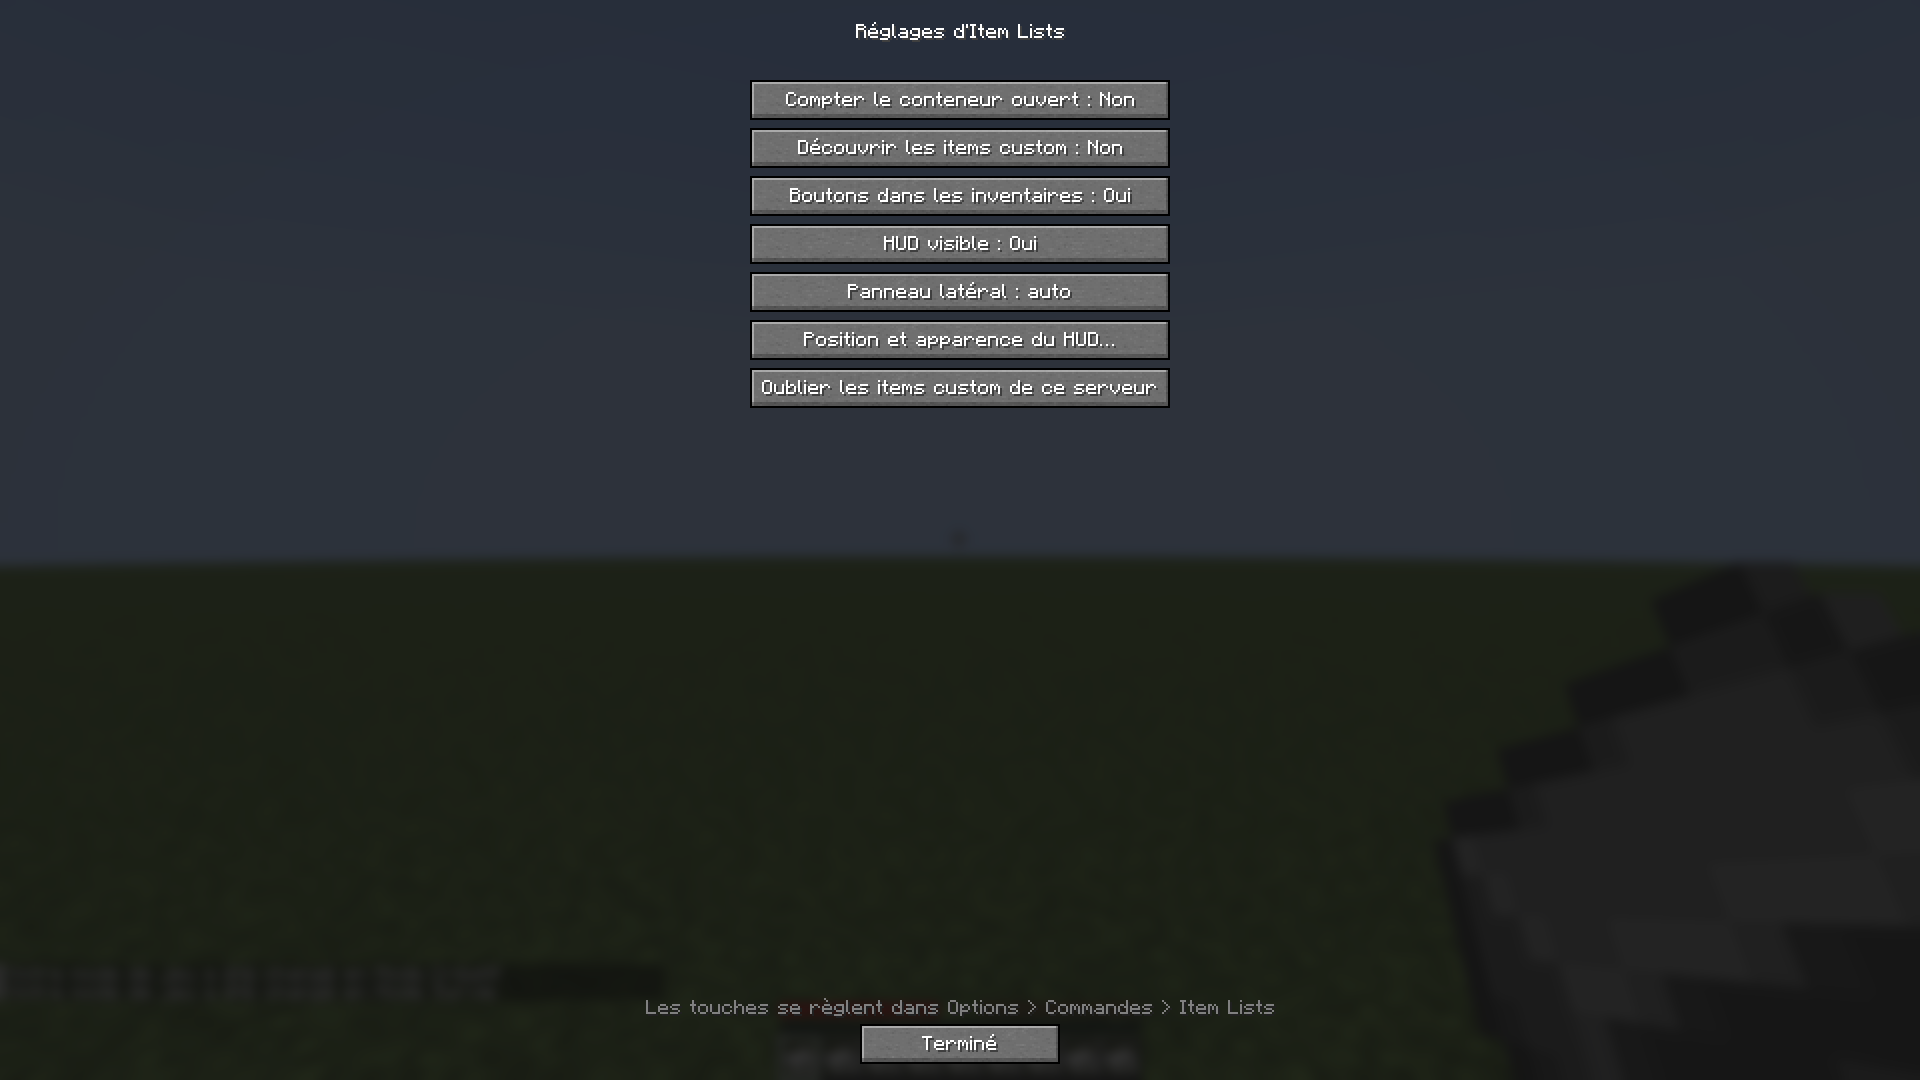
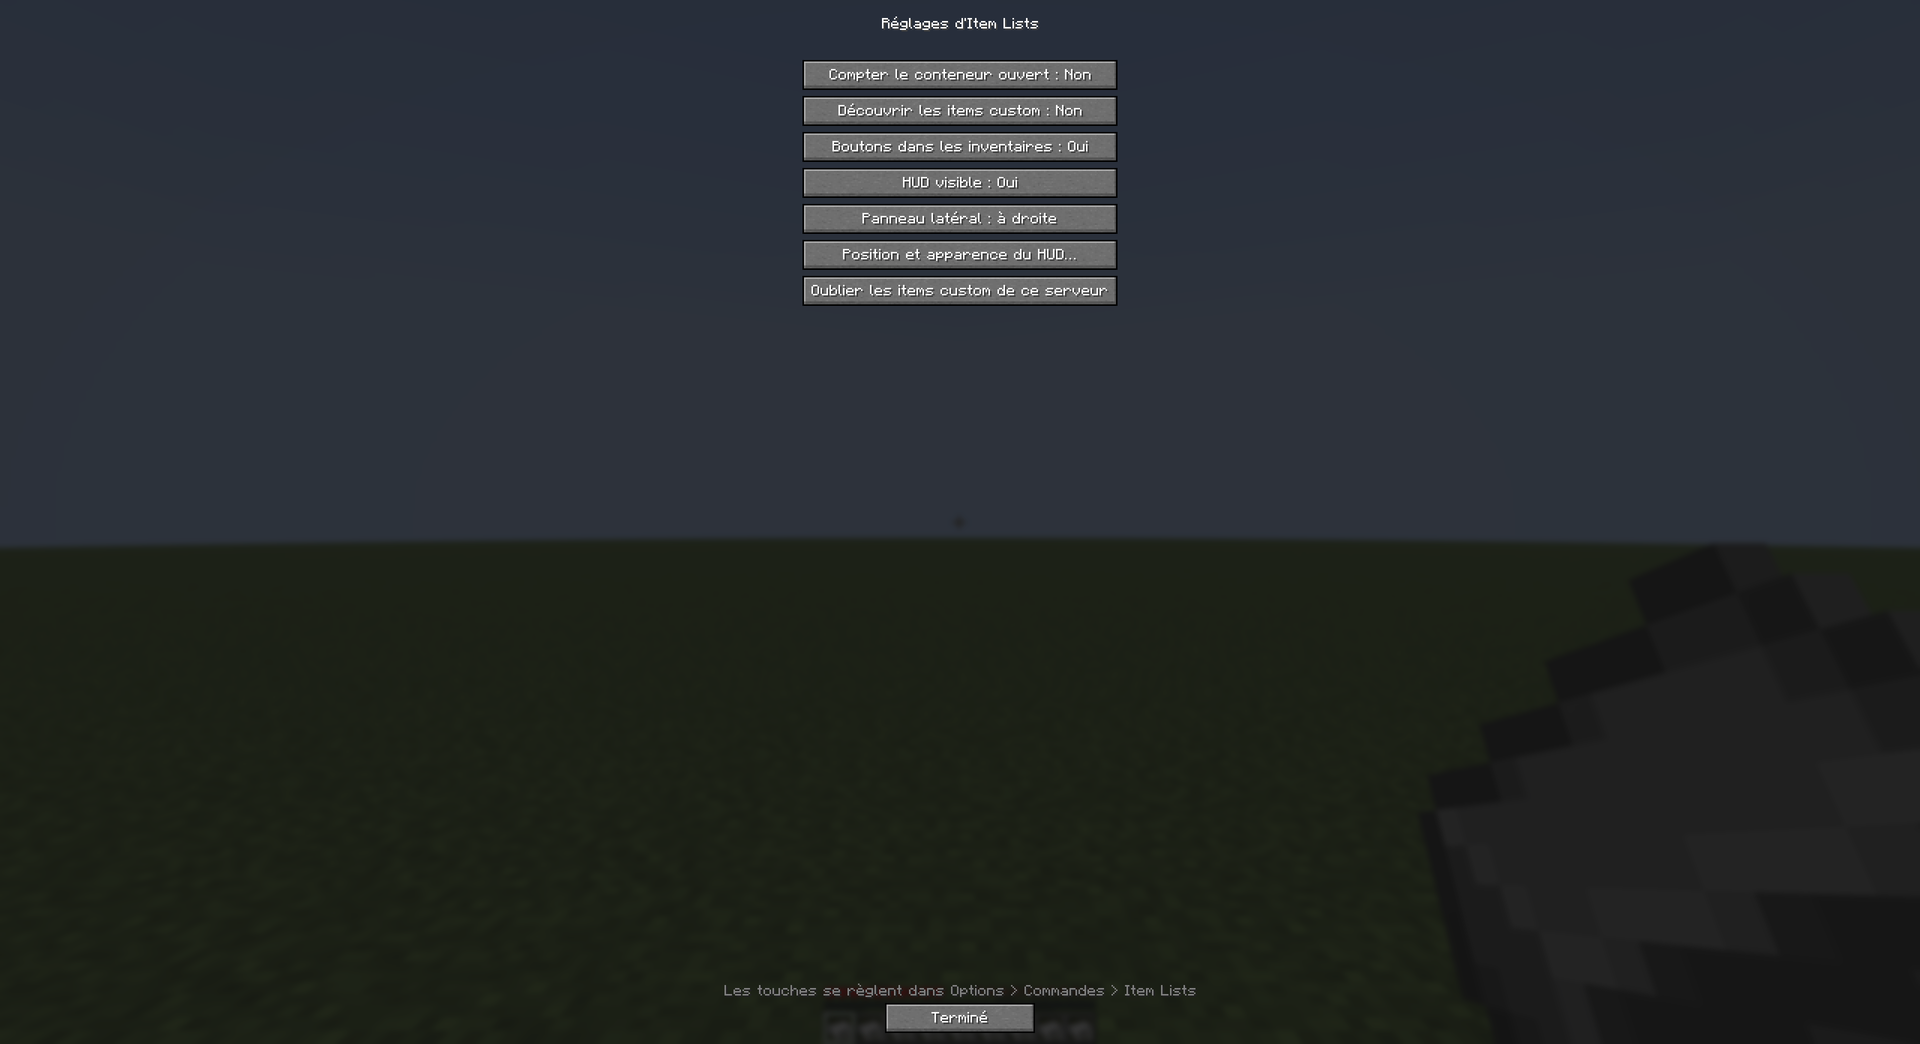
Docs : captures avec la configuration du client de référence
- Fenêtre maximisée 3840x2089, interface à l'échelle 3, panneau à droite,
  HUD et langue (fr) de la config de dev ; images réduites de moitié
  (1920x1044) pour la doc, mise en page identique.
- Capture d'édition dans le panneau à droite (panneau-edition.png),
  remplace la capture « dessous ».
- Test en jeu : constantes SHOWCASE_*, chat vidé après l'étape créative.

Changed region(s): [[0.375, 0.0, 0.625, 0.3985], [0.3438, 0.9195, 0.6562, 1.0]]

diff --git a/src/gametest/java/com/eldrazy/itemlists/gametest/ItemListsClientGameTest.java b/src/gametest/java/com/eldrazy/itemlists/gametest/ItemListsClientGameTest.java
@@ -32,6 +32,11 @@ import com.eldrazy.itemlists.identity.ItemIdentity;
  * Lancer avec {@code ./gradlew runClientGameTest}.
  */
 public class ItemListsClientGameTest implements FabricClientGameTest {
+	/** Configuration des captures "vitrine" (celle du client de dev de reference). */
+	static final int SHOWCASE_WIDTH = 3840;
+	static final int SHOWCASE_HEIGHT = 2089;
+	static final int SHOWCASE_GUI_SCALE = 3;
+	static final com.eldrazy.itemlists.config.ModConfig.PanelSide SHOWCASE_PANEL_SIDE = com.eldrazy.itemlists.config.ModConfig.PanelSide.RIGHT;
 	static final String NEXO_RUBY = "paper[custom_data={PublicBukkitValues:{\"nexo:id\":\"ruby\"}},item_model=\"minecraft:emerald\",custom_name={\"text\":\"Rubis\",\"italic\":false}]";
 	static final String IA_SHARD = "paper[custom_data={itemsadder:{namespace:\"citadelle\",id:\"etherium_shard\"}},item_model=\"minecraft:amethyst_shard\",item_name=\"Éclat d'Etherium\"]";
 	static final String ORAXEN_GEM = "paper[custom_data={PublicBukkitValues:{\"oraxen:id\":\"gem\"}}]";
@@ -191,11 +196,13 @@ public class ItemListsClientGameTest implements FabricClientGameTest {
 			lists.create("Portail de l'End");
 			lists.saveAll();
 		});
-		// Equivalent d'un plein ecran Full HD avec une interface reduite (echelle 2) : les menus ne prennent pas tout l'ecran.
-		context.getInput().resizeWindow(1920, 1080);
+		// Meme configuration que le client de reference : fenetre maximisee 3840x2089, interface a l'echelle 3,
+		// panneau de la liste a droite (les images sont ensuite reduites de moitie pour la doc).
+		context.getInput().resizeWindow(SHOWCASE_WIDTH, SHOWCASE_HEIGHT);
 		context.runOnClient(mc -> {
-			mc.options.guiScale().set(2);
+			mc.options.guiScale().set(SHOWCASE_GUI_SCALE);
 			mc.resizeGui();
+			ItemListsClient.getInstance().config().sidePanelSide = SHOWCASE_PANEL_SIDE;
 		});
 		context.waitTicks(40);
 		context.runOnClient(mc -> {
@@ -230,6 +237,9 @@ public class ItemListsClientGameTest implements FabricClientGameTest {
 		context.runOnClient(mc -> ItemListsClient.getInstance().config().sidePanelVisible = false);
 		context.setScreen(() -> null);
 		world.getServer().runCommand("gamemode survival ItemListsDev");
+		context.waitTicks(2);
+		// Pas de messages "mode de jeu change" dans les captures suivantes.
+		context.runOnClient(mc -> mc.gui.hud.getChat().clearMessages(false));
 
 		context.setScreen(() -> new ListsScreen(null));
 		context.waitTicks(5);
@@ -291,13 +301,16 @@ public class ItemListsClientGameTest implements FabricClientGameTest {
 	private static void testPanelEditing(ClientGameTestContext context) {
 		context.runOnClient(mc -> ItemListsClient.getInstance().config().sidePanelSide = com.eldrazy.itemlists.config.ModConfig.PanelSide.BELOW);
 		context.waitTicks(3);
-		context.takeScreenshot("showcase_panel_below");
+		context.takeScreenshot("test_panel_below");
+		// L'edition se fait (et se photographie) dans la position de la configuration de reference.
+		context.runOnClient(mc -> ItemListsClient.getInstance().config().sidePanelSide = SHOWCASE_PANEL_SIDE);
+		context.waitTicks(3);
 		int[] cell = context.computeOnClient(mc -> {
 			var screen = (net.minecraft.client.gui.screens.inventory.AbstractContainerScreen<?>) mc.gui.screen();
 			var area = com.eldrazy.itemlists.client.inventory.ContainerOverlay.layout(screen).area();
 			int scale = mc.getWindow().getGuiScale();
 			// Premiere case : un peu apres l'icone, puis tout a droite de la case (zone de la quantite).
-			return new int[] {(area.left() + 30) * scale, (area.top() + 22 + 8) * scale, (area.left() + 140) * scale};
+			return new int[] {(area.left() + 30) * scale, (area.top() + 22 + 8) * scale, (area.left() + Math.min(140, area.width() - 12)) * scale};
 		});
 		ItemList active = context.computeOnClient(mc -> ItemListsClient.getInstance().lists().active());
 		int original = active.entries().get(0).target();
@@ -325,7 +338,7 @@ public class ItemListsClientGameTest implements FabricClientGameTest {
 		context.runOnClient(mc -> {
 			active.entries().get(0).setTarget(original);
 			ItemListsClient.getInstance().lists().markDirty(active);
-			ItemListsClient.getInstance().config().sidePanelSide = com.eldrazy.itemlists.config.ModConfig.PanelSide.AUTO;
+			ItemListsClient.getInstance().config().sidePanelSide = SHOWCASE_PANEL_SIDE;
 		});
 	}
 

diff --git a/README.md b/README.md
@@ -45,9 +45,9 @@ Dans l'inventaire et **tous** les écrans de conteneur (coffres, shulkers, ender
 - touche `N` sur un item survolé (inventaire, liste et favoris de REI/JEI) : ajout à la liste active. En jeu sans menu, `N` ajoute l'item tenu en main ;
 - en position auto, le panneau se place à l'opposé de la liste d'items de REI/JEI (à droite sans eux), en évitant le livre de recettes. En position « dessous », il s'étale sur plusieurs colonnes sous l'inventaire (retour sur le côté s'il manque de place).
 
-| Panneau sur le côté | Panneau dessous, quantité en cours de saisie |
+| Panneau de la liste active | Quantité en cours de saisie dans le panneau |
 |---|---|
-| ![Boutons et panneau latéral dans l'inventaire](docs/images/panneau-lateral.png) | ![Panneau sous l'inventaire, édition d'une quantité](docs/images/panneau-dessous-edition.png) |
+| ![Boutons et panneau latéral dans l'inventaire](docs/images/panneau-lateral.png) | ![Édition d'une quantité dans le panneau](docs/images/panneau-edition.png) |
 
 ### HUD (touche `H` pour afficher/masquer, `/itemlists hud` pour l'éditer)
 - Même style que *chunklimitcounter* : panneau sombre aux coins rabotés, palette vert / jaune / rouge (complet / partiel / manquant), barre de progression fine.

diff --git a/docs/FONCTIONNEMENT.md b/docs/FONCTIONNEMENT.md
@@ -269,7 +269,7 @@ Le mod se greffe sur **tout** écran de conteneur (`AbstractContainerScreen`) : 
 
 Les touches `N` (ajouter l'item survolé) et panneau latéral sont ignorées pendant la saisie dans un champ texte, comme la recherche de l'inventaire créatif.
 
-![Panneau sous l'inventaire, édition d'une quantité](images/panneau-dessous-edition.png)
+![Édition d'une quantité dans le panneau](images/panneau-edition.png)
 
 ### Réglages
 
